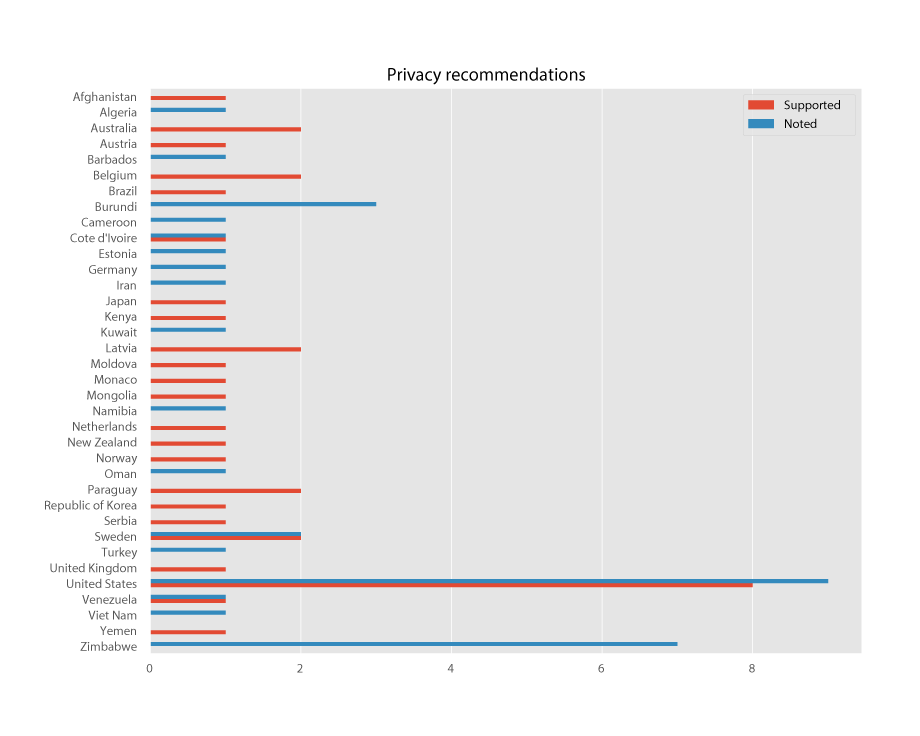
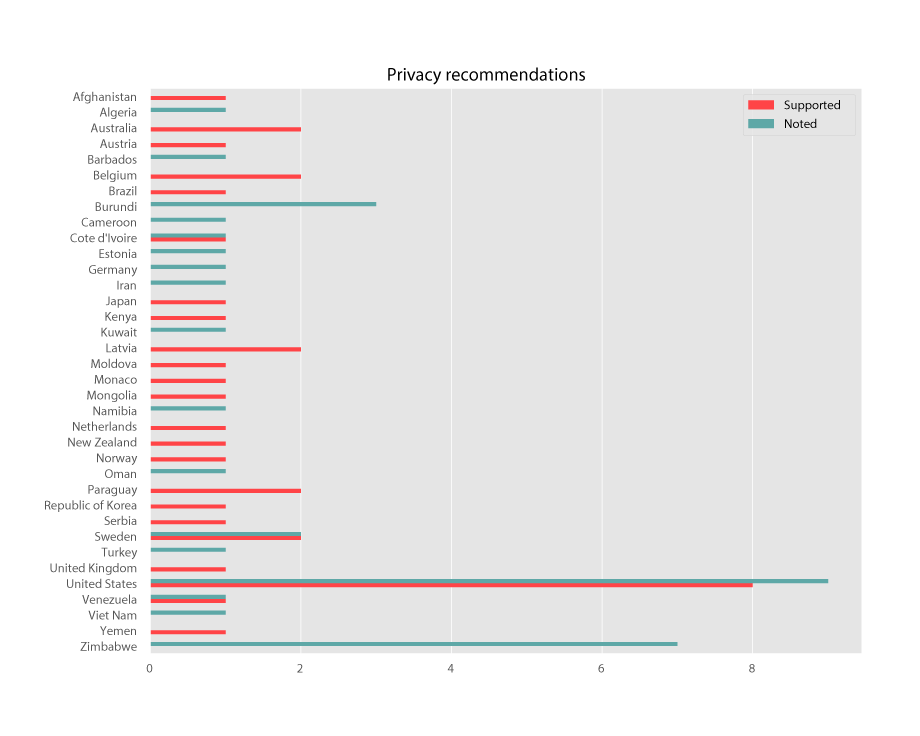
fixed colors

Changed region(s): [[0.1522, 0.125, 0.8826, 0.875], [0.7913, 0.125, 0.8522, 0.1875]]

diff --git a/upr/index.html b/upr/index.html
@@ -51,7 +51,10 @@
                 <p class="credit super-font">BY Max Anderson</p>
                 <p class="date sub-font">Published in the future</p>
                 <p class="body-text sub-font">
-                introduction<br>
+                <img class="image" src="style/images/hrc.jpg" alt="image description">
+                <p class="note sub-font">CC Maina Kai
+                </p>
+
                 <br>
                 Explain the UPR and the HRC. Etiam porta sem malesuada magna mollis euismod. Aenean lacinia bibendum nulla sed consectetur. Nullam quis risus eget urna mollis ornare vel eu leo. Integer posuere erat a ante venenatis dapibus posuere velit aliquet. Fusce dapibus, tellus ac cursus commodo, tortor mauris condimentum nibh, ut fermentum massa justo sit amet risus. Duis mollis, est non commodo luctus, nisi erat porttitor ligula, eget lacinia odio sem nec elit. Nullam quis risus eget urna mollis ornare vel eu leo. <br>
                 sus eget urna mollis ornare vel eu leo. Integer posuere erat a ante venenatis dapibus posuere velit aliquet. Fusce dapibus, tellus ac cursus commodo, tortor mauris condimentum nibh, ut fermentum massa justo sit amet risus. Duis mollis, est non commodo luctus, nisi erat porttitor ligula, eget lacinia odio sem nec elit. Nullam quis risus eget urna mollis ornare vel e
@@ -64,7 +67,7 @@
 
         <div class="row justify-content-center"><!-- headline and intro -->
             <div class="col-lg-10 ">
-                <p class="subhead super-font">Privacy</p>
+                <p class="subhead super-font">Privacy remains contentious issue</p>
                 <p class="body-text sub-font">
                 Etiam porta sem malesuada magna mollis euismod. Aenean lacinia bibendum nulla sed consectetur. Nullam quis risus eget urna mollis ornare vel eu leo. Integer posuere erat a ante venenatis dapibus posuere velit aliquet. Fusce dapibus, tellus ac cursus commodo, tortor mauris condimentum nibh, ut fermentum massa justo sit amet risus. Duis mollis, est non commodo luctus, nisi erat porttitor ligula, eget lacinia odio sem nec elit. Nullam quis risus eget urna mollis ornare vel eu leo. <br>
                 sus eget urna mollis ornare vel eu leo. Integer posuere erat a ante venenatis dapibus posuere velit aliquet. Fusce dapibus, tellus ac cursus commodo, tortor mauris condimentum nibh, ut fermentum massa justo sit amet risus. Duis mollis, est non commodo luctus, nisi erat porttitor ligula, eget lacinia odio sem nec elit. Nullam quis risus eget urna mollis ornare vel e
@@ -75,11 +78,10 @@
 <!-- start of one size B image -->
         <div class="row justify-content-center"> <!-- labels/deszcriptions and three charts for mobile -->
             <div class="col-md-10"><!-- left -->
-                <p class="label super-font">Chart label</p>
-                <p class="label-text super-font">Chart descriptiona liquet. Lorem ipsum dolor sit amet, consectetur adipisicing elit, sed do eiusmod tempor. </p>
+                <p class="label super-font">Privacy recommendations are contentious</p>
+                <p class="label-text super-font"> </p>
                 <img class="image" src="style/images/1_recs_edited.png" alt="image description">
-                <p class="note sub-font">NOTE: an optional note or source can go here. <br>
-                SOURCE: Sourcename here
+                <p class="note sub-font">SOURCE: UPR Info
                 </p>
             </div>
         </div>
@@ -89,11 +91,10 @@
 <!-- start of one size B image -->
         <div class="row justify-content-center"> <!-- labels/deszcriptions and three charts for mobile -->
             <div class="col-md-10"><!-- left -->
-                <p class="label super-font">Chart label</p>
-                <p class="label-text super-font">Chart descriptiona liquet. Lorem ipsum dolor sit amet, consectetur adipisicing elit, sed do eiusmod tempor. </p>
+                <p class="label super-font">Guess who receives most privacy recommendations</p>
+                <p class="label-text super-font">While the US tops the list, Sweden places third for most recommendations received. </p>
                 <img class="image" src="style/images/2_top_recips_edited.png" alt="image description">
-                <p class="note sub-font">NOTE: an optional note or source can go here. <br>
-                SOURCE: Sourcename here
+                <p class="note sub-font">SOURCE: UPR Info
                 </p>
             </div>
         </div>
@@ -104,8 +105,8 @@
 
         <div class="row justify-content-center"> 
             <div class="col-md-10">
-                <p class="label super-font">Chart label</p>
-                <p class="label-text super-font">Labels for chart should usually go above the visualization.</p>
+                <p class="label super-font">All privacy recommendations</p>
+                <p class="label-text super-font">And whether the recommendation was noted or accepted.</p>
             </div>
             <img class="image" src="style/images/3_recs_reaction.png" alt="image description">
         </div>
